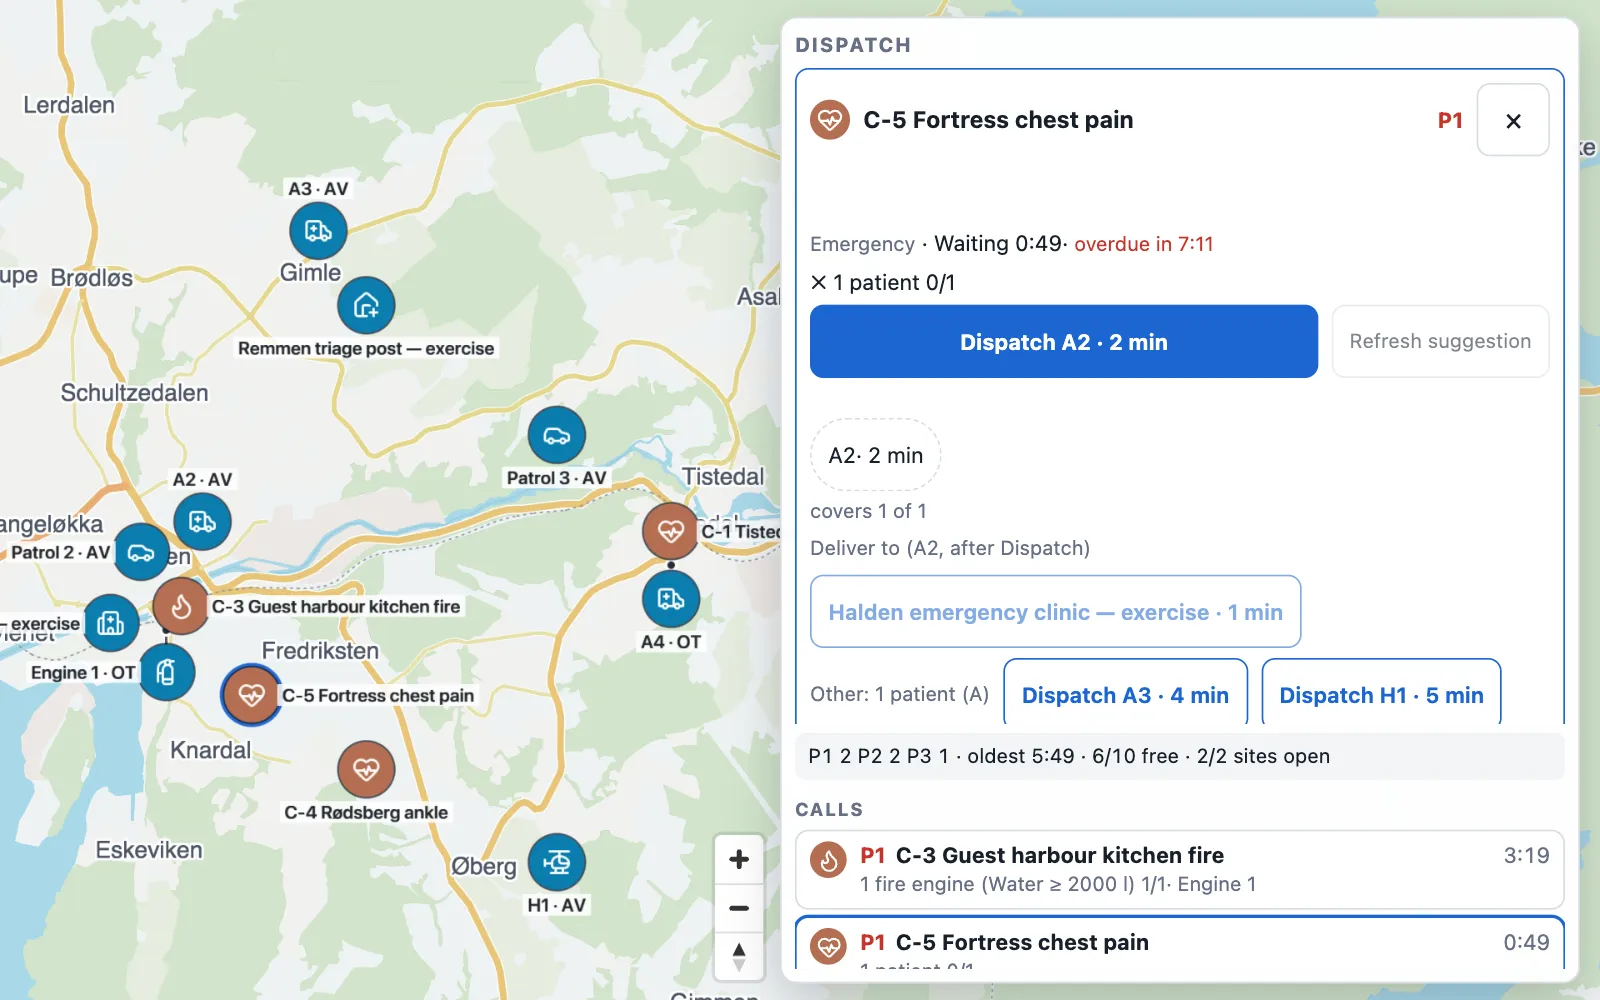
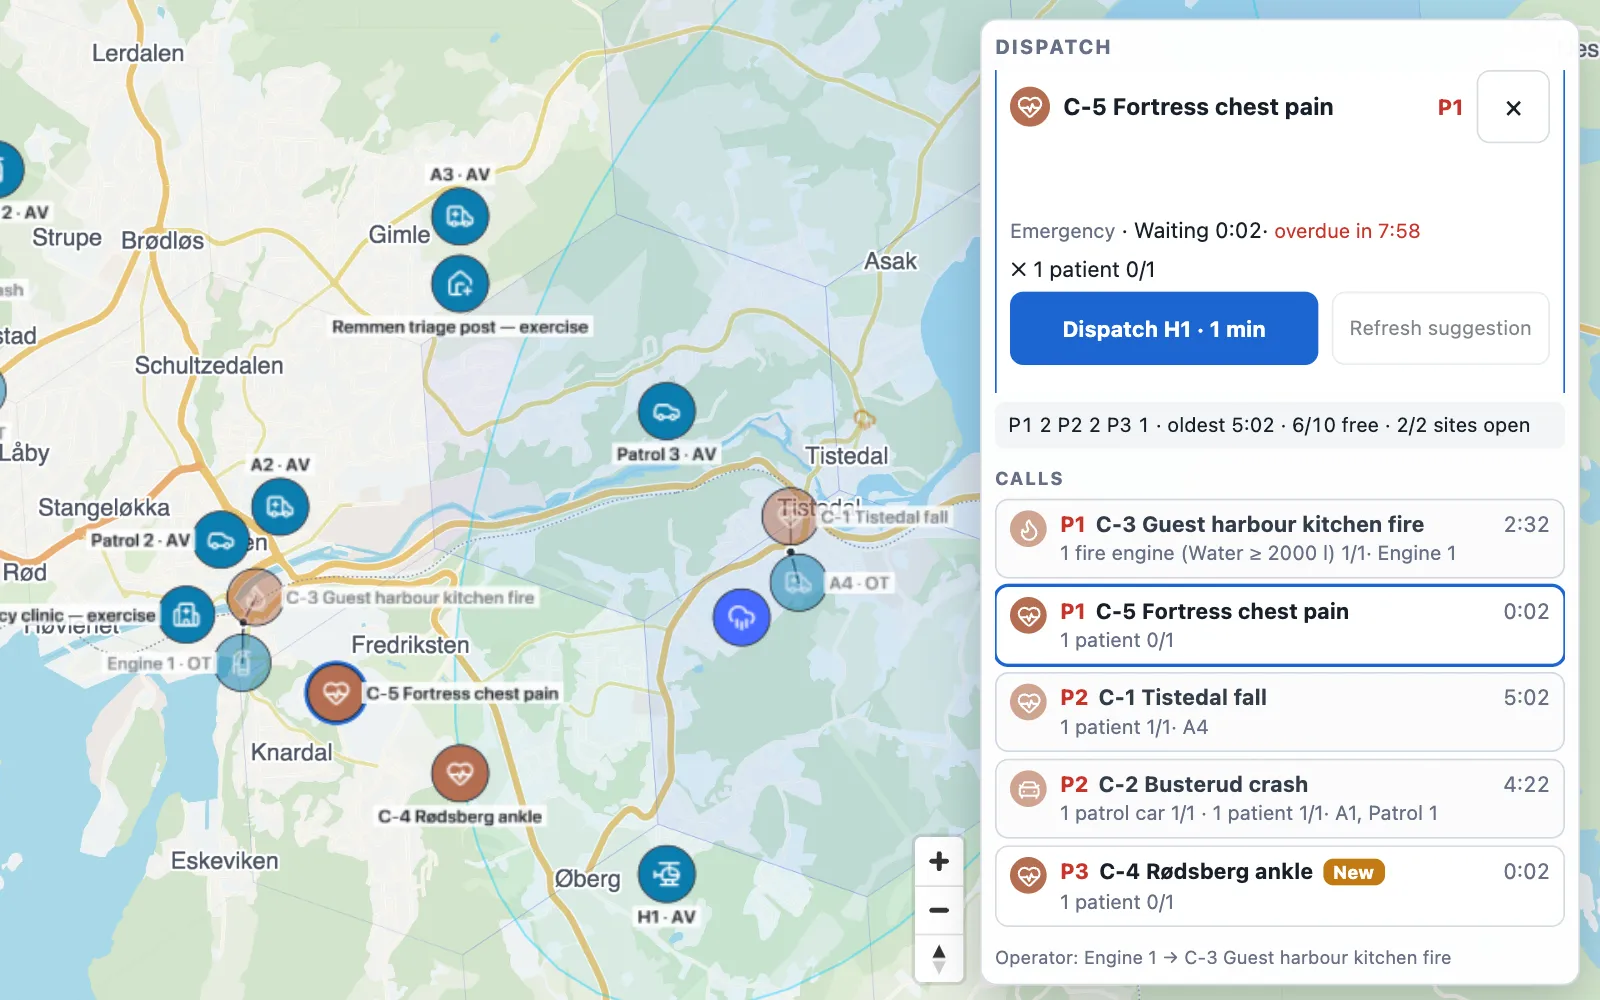
Recapture the landing and guide Einsatz screenshots from the merged Dispatch panel
Captured from this head on the local stack (straight-line routing; the
base-map tiles served from the public leitbild.app tiles, as before),
in a halden-emergency Run paused at 18:05:02 with A4 on scene at C-1,
A1 and Patrol 1 at C-2, Engine 1 at C-3, and C-5 and C-4 just in. Same
960 x 600 crop of a 1920 x 726 page as before; the map is panned so
Halden sits left of the now 360 px wide panel, as in the old images.

- Hero: the C-5 card with "Dispatch H1 · 1 min" above the calls list.
  Its alt text still says what it shows, so it is unchanged.
- Guide: the panel overview, calls ranked P1, P1, P2, P2, P3, free
  units first, and the latest receipt ("Operator: Engine 1 → C-3 …").
  Alt text now says free units come first.

Shared files: none (Host guide-content.ts and image assets only).

diff --git a/apps/leitbild/src/ui/guide-content.ts b/apps/leitbild/src/ui/guide-content.ts
@@ -153,7 +153,7 @@ export const GUIDE_PAGES: ReadonlyArray<GuidePage> = [
         body: 'Einsatz (German for a call-out) is Leitbild’s dispatch and command engine. Ambulances, patrol cars, fire engines, trucks or tanks: every unit type, call and role comes from the scenario, not from code. Tap a call, then Dispatch. The Dispatch panel lists every call and unit, so one person can run the demo.',
         why: 'One engine for emergency-service, logistics and military exercises, built for teams.',
         limits: 'The exercises are fictional, and the Assistant is not available in exercises with roles.',
-        media: { kind: 'shot', shot: 'guide-einsatz', alt: 'The Dispatch panel over Halden: open calls ranked by priority with their waiting times, the units below them, and units on the map.' },
+        media: { kind: 'shot', shot: 'guide-einsatz', alt: 'The Dispatch panel over Halden: open calls ranked by priority with waiting times, free units first below them, and units on the map.' },
         action: { kind: 'demo', label: 'Try the dispatch demo', demo: 'world:halden-emergency' },
         wiki: [wiki('world/packs/einsatz/index.md', 'Einsatz'), wiki('world/roles-and-sides.md', 'Roles and sides')],
       },
